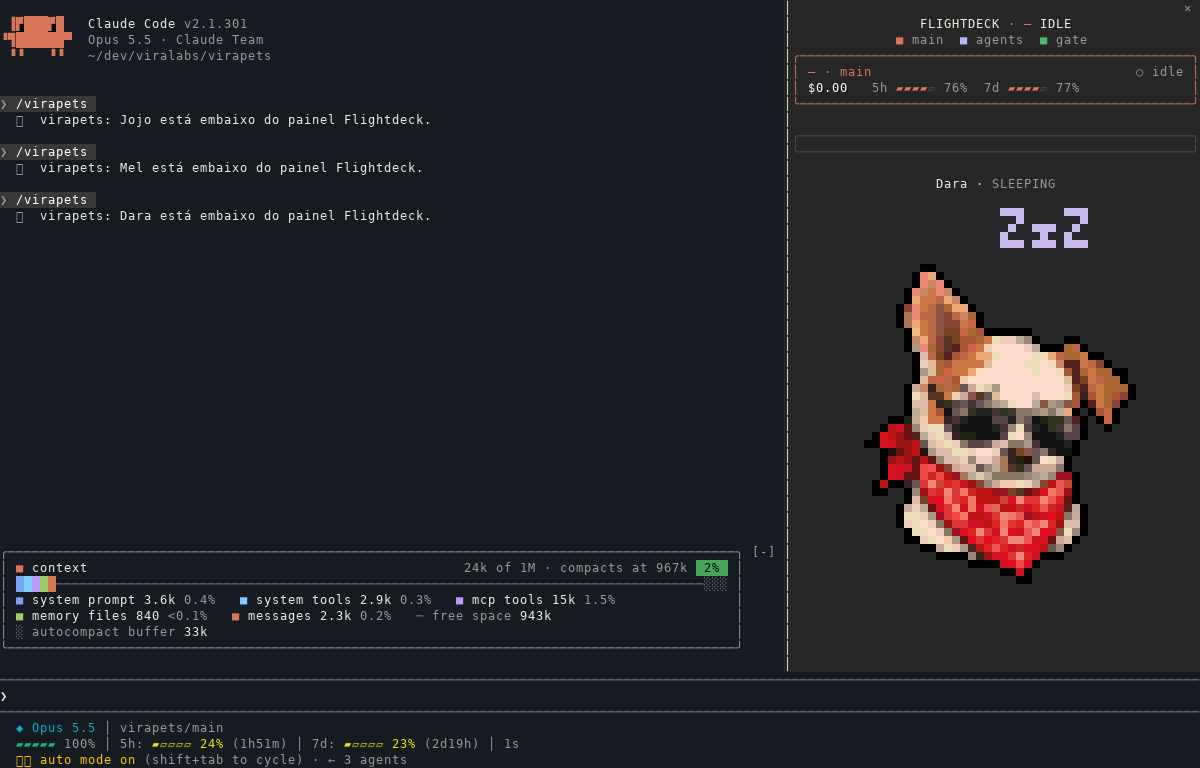
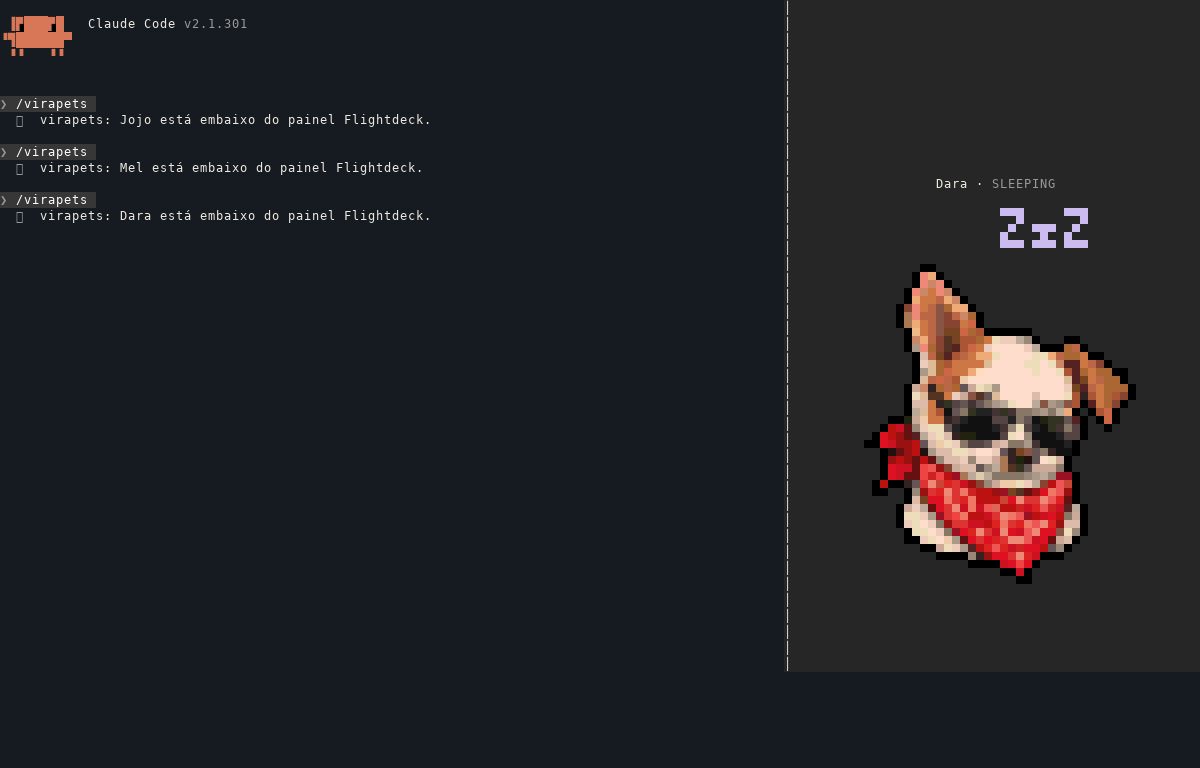
docs: remove dados de sessão das capturas

diff --git a/docs/capturas/README.md b/docs/capturas/README.md
@@ -9,3 +9,11 @@ A saída ANSI foi renderizada com pyte/Pillow em 1200×768, usando células de 8
 [Metadados, intervalos e hashes](recording-0.4.0.json). Os GIFs dos personagens apresentados no README continuam sendo os originais em `assets/pets/<id>/animations/`; nenhuma arte ou configuração do painel foi alterada para estas gravações.
 
 `01-embaixo-da-flightdeck.png` é a captura histórica do Jojo 0.2.0 e permanece como referência, sem representar a instalação atual.
+
+## Privacidade das capturas
+
+Revisadas em 16/10/2026: caminhos locais, plano da conta, métricas de uso/custo/contexto e controles de sessão foram ocultados com máscaras opacas em todos os quadros. A captura histórica também omite branch, mensagem e indicadores da sessão. Os personagens, a quantidade de quadros e os tempos das animações foram preservados. Os hashes descrevem os arquivos revisados.
+
+A revisão abrange os arquivos atuais; commits anteriores podem conservar as versões originais. Antes de acrescentar uma captura, conferir todos os quadros e remover informações de conta, caminhos, prompts privados, credenciais e metadados pessoais.
+
+Também foram removidos os perfis APP1 de duas pranchas de referência em `assets/pets/`, preservando os pixels. Relatórios históricos de validação mantêm os hashes da época em que foram executados.

diff --git a/README.md b/README.md
@@ -27,6 +27,8 @@ Gravações da instalação local **ViraPets 0.4.0**, no **Claude Code 2.1.301**
 
 **Jojo — HAPPY** · `/virapets jojo happy`
 
+As capturas abaixo tiveram dados de conta, caminhos locais e métricas da sessão ocultados em todos os quadros.
+
 <img src="docs/capturas/jojo-no-claude-0.4.0.gif" width="900" alt="Jojo em HAPPY animado no painel real do Claude com Flightdeck">
 
 [Ver captura estática](docs/capturas/jojo-no-claude-0.4.0.png)
